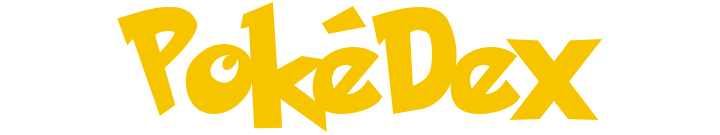
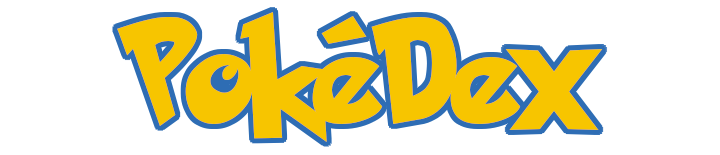
Finish up base dex front welcome page

Changed region(s): [[0.1528, 0.0296, 0.8556, 0.9778]]

diff --git a/BaseDex/src/components/WelcomePage/WelcomePage.tsx b/BaseDex/src/components/WelcomePage/WelcomePage.tsx
@@ -4,6 +4,7 @@ import styles from './WelcomePage.module.css';
 import reactFont from '../../assets/reactfont.png'
 import pokdexFont from '../../assets/pokedexfont.png'
 import reactSvg from '../../assets/react.svg'
+import dexCoverTriangle from '../../assets/dex_cover_triangle.svg'
 
 export function WelcomePage() {
     const navigate = useNavigate();
@@ -13,12 +14,12 @@ export function WelcomePage() {
         <div onClick={loadData} className={styles.load}>
             <DexHeader></DexHeader>
             <div className={styles.welcome}>
-                {/* TODO: styles these with the blue outline and add the triangle on the right */}
-                {/* TODO: change this to grid and tweak the sizes */}
-                {/* TODO: make the other lang images: fontsz.com/pokemon-font-generator*/}
-                <img className={styles.font_image}src={reactSvg} alt='stylized font of the word "react"'/>
-                <img className={styles.font_image}src={reactFont} alt='stylized font of the word "react"'/>
-                <img className={styles.font_image}src={pokdexFont} alt='stylized font of the word "PokéDex"'/>
+                <div>
+                    <img className={`${styles.font_image} ${styles.react_logo}`}src={reactSvg} alt='React Logo of a blue atom with three orbits.'/>
+                    <img className={styles.font_image}src={reactFont} alt='Stylized font of the word "react".'/>
+                    <img className={styles.font_image}src={pokdexFont} alt='Stylized font of the word "PokéDex".'/>
+                </div>
+                <img className={styles.dex_triangle}src={dexCoverTriangle} alt='stylized font of the word "PokéDex"'/>
                 <p>Touch to begin!</p>
             </div>
         </div>

diff --git a/BaseDex/src/components/WelcomePage/WelcomePage.module.css b/BaseDex/src/components/WelcomePage/WelcomePage.module.css
@@ -6,6 +6,16 @@
 }
 
 .welcome {
+    display: grid;
+    margin: auto;
+
+    grid-template-columns: 1fr 1fr 1fr;
+    grid-template-areas: 
+        '. centerDecal dex_triangle'
+        '. instructions dex_triangle';
+}
+
+.welcome div {
     display: flex;
     flex-direction: column;
     margin: auto;
@@ -13,9 +23,28 @@
     width: 50%;
     max-width: 450px;
     min-width: 275px;
+    grid-area: centerDecal;
+}
+
+.font_image {
+    margin-bottom: .5rem;
+}
+
+.react_logo {
+    width: 60%;
+    margin: 4rem auto;
 }
 
 .welcome p {
     font-size: large;
     font-weight: bolder;
+    grid-area: instructions;
+    text-align: center;
+    margin: 0;
+}
+
+.dex_triangle {
+    width: 60px;
+    margin: auto 1rem auto auto;
+    grid-area: dex_triangle;
 }
